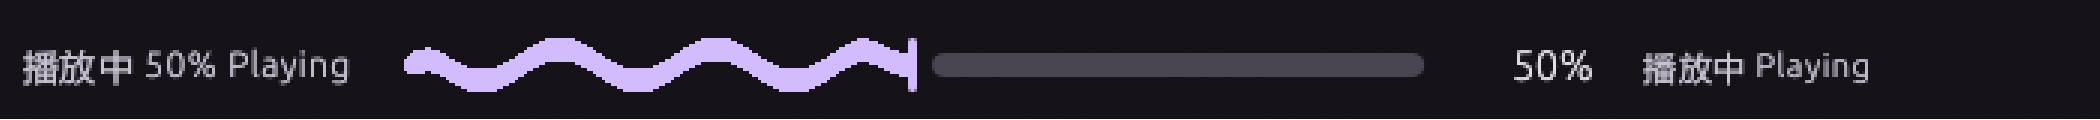
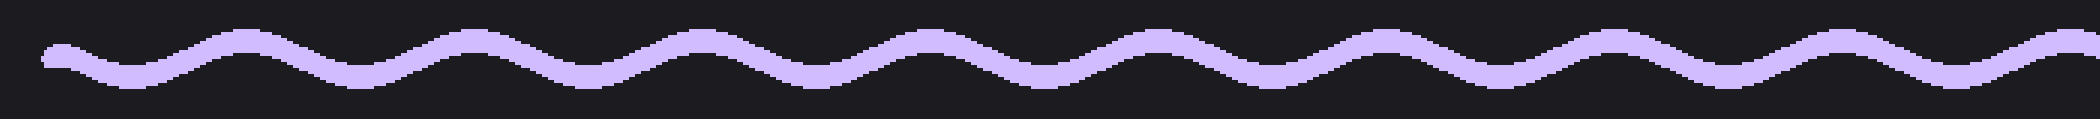
fix: 划像分界线收成 1px、把手改大圆角原生药丸，修拖动时舞台透出下层窗口
- 分界不再留 24px 空洞，A/B 两片在 split 处相接，中间那条 1px 线由 grip 窗口自己画，因此不会再看到下层窗口。\n- grip 区域改为「1px 线 ∪ 圆角药丸」：竖缝用 20x64、横缝用 64x20，圆角半径取短边一半，把手两端真正变圆。\n- 表面窗口的 WM_ERASEBKGND 交回 DefWindowProc 用黑色类刷擦除，尺寸变化/暴露时不会再出现未绘制的透明块。\n- 顺手删掉导航栏底部与「设置」重复的主题色按钮，只保留版本号。

Changed region(s): [[0.0, 0.225, 1.0, 0.775]]

diff --git a/src/video/childwin.rs b/src/video/childwin.rs
@@ -21,10 +21,10 @@ use windows_sys::Win32::Foundation::{
     ERROR_CLASS_ALREADY_EXISTS, GetLastError, HINSTANCE, HWND, LPARAM, LRESULT, POINT, RECT, WPARAM,
 };
 use windows_sys::Win32::Graphics::Gdi::{
-    BLACK_BRUSH, BeginPaint, ClientToScreen, CreatePen, CreateRectRgn, CreateRoundRectRgn,
-    CreateSolidBrush, DeleteObject, EndPaint, FillRect, GetDC, GetStockObject, InvalidateRect,
-    LineTo, MoveToEx, PAINTSTRUCT, ReleaseDC, ScreenToClient, SelectObject, SetWindowRgn,
-    ValidateRect,
+    BLACK_BRUSH, BeginPaint, ClientToScreen, CombineRgn, CreatePen, CreateRectRgn,
+    CreateRoundRectRgn, CreateSolidBrush, DeleteObject, EndPaint, FillRect, GetDC, GetStockObject,
+    InvalidateRect, LineTo, MoveToEx, PAINTSTRUCT, RGN_OR, ReleaseDC, ScreenToClient, SelectObject,
+    SetWindowRgn, ValidateRect,
 };
 use windows_sys::Win32::System::LibraryLoader::GetModuleHandleW;
 use windows_sys::Win32::UI::Input::KeyboardAndMouse::{GetAsyncKeyState, VK_LBUTTON};
@@ -1090,6 +1090,68 @@ impl ChildWindow {
         Ok(Self { hwnd })
     }
 
+    /// Shapes the wipe grip: a one-pixel divider plus a rounded pill centred on
+    /// it.
+    ///
+    /// `vertical` orients the divider (a vertical seam for a left/right split).
+    /// `long`/`short` are the pill's dimensions; `short` is also its corner
+    /// radius, so the pill stays fully rounded.
+    pub fn set_grip_region(&self, vertical: bool, long: i32, short: i32) {
+        let mut rect = RECT::default();
+        // SAFETY: client rect query on a live HWND; `RECT` is a plain struct.
+        let (w, h) = unsafe {
+            if GetClientRect(self.hwnd, &mut rect) != 0 {
+                (rect.right - rect.left, rect.bottom - rect.top)
+            } else {
+                (0, 0)
+            }
+        };
+        if w <= 0 || h <= 0 {
+            return;
+        }
+        let cx = w / 2;
+        let cy = h / 2;
+        // A vertical seam gets a tall pill, a horizontal seam a wide one.
+        let (pill_w, pill_h) = if vertical {
+            (short, long)
+        } else {
+            (long, short)
+        };
+        // SAFETY: regions are plain GDI objects created and released here; on
+        // success SetWindowRgn takes ownership of the combined one.
+        unsafe {
+            let line = if vertical {
+                CreateRectRgn(cx, 0, cx + 1, h)
+            } else {
+                CreateRectRgn(0, cy, w, cy + 1)
+            };
+            if line.is_null() {
+                return;
+            }
+            let pill = CreateRoundRectRgn(
+                cx - pill_w / 2,
+                cy - pill_h / 2,
+                cx + pill_w / 2 + 1,
+                cy + pill_h / 2 + 1,
+                pill_h.min(pill_w),
+                pill_h.min(pill_w),
+            );
+            if pill.is_null() {
+                DeleteObject(line);
+                return;
+            }
+            if CombineRgn(line, line, pill, RGN_OR) == 0 {
+                DeleteObject(pill);
+                DeleteObject(line);
+                return;
+            }
+            DeleteObject(pill);
+            if SetWindowRgn(self.hwnd, line, 1) == 0 {
+                DeleteObject(line);
+            }
+        }
+    }
+
     /// Applies the rounded-pill region matching the current size.
     ///
     /// Called after every resize so the handle keeps its Material shape
@@ -1175,7 +1237,13 @@ unsafe extern "system" fn wndproc(
     lparam: LPARAM,
 ) -> LRESULT {
     match message {
-        WM_ERASEBKGND => 1,
+        // The class background brush is black, so let it erase: a resized or
+        // exposed surface then repaints opaque instead of showing whatever was
+        // behind it (which looked like the window going transparent).
+        WM_ERASEBKGND => {
+            // SAFETY: default handling uses the class brush registered above.
+            unsafe { DefWindowProcW(hwnd, message, wparam, lparam) }
+        }
         WM_PAINT => {
             // SAFETY: standard paint sequence; every acquired DC is released and
             // the update region is validated before returning.

diff --git a/src/app/stage.rs b/src/app/stage.rs
@@ -37,6 +37,11 @@ const SYNC_INTERVAL: Duration = Duration::from_millis(250);
 /// subclassing, so a recreated renderer cannot silently swallow the pointer.
 const HOOK_SCAN_INTERVAL: Duration = Duration::from_millis(400);
 
+/// Wipe grip pill: long/short side in physical pixels. The short side also
+/// doubles as the corner radius, so the pill reads as fully rounded.
+const GRIP_PILL_LONG: i32 = 64;
+const GRIP_PILL_SHORT: i32 = 20;
+
 /// Physical pixel rectangle.
 type PxRect = (i32, i32, i32, i32);
 
@@ -272,7 +277,7 @@ impl Media {
             let ok = [Plane::A, Plane::B]
                 .into_iter()
                 .all(|plane| self.surface_mut(plane).ensure(stage, plane).is_ok());
-            self.grip.round = 9;
+            self.grip.round = 0; // shaped by `set_grip_region`, not a plain pill
             let grip_ok = ChildWindow::create_grip(stage, 0x4D56_0005, "muxvideo-grip")
                 .map(|win| {
                     self.grip.hwnd = win.hwnd();
@@ -446,10 +451,11 @@ impl Media {
                         let split = (wipe.clamp(0.0, 1.0)
                             * if axis == SplitAxis::Horizontal { w } else { h } as f32)
                             .round() as i32;
-                        // Leave a hole at the seam so the egui-painted divider
-                        // and its drag handle show through (native planes sit
-                        // above egui, so the handle can only live in the gap).
-                        const SEAM: i32 = 10;
+                        // The seam is a single pixel: plane A owns the column to
+                        // the left of `split`, plane B owns it from `split` on.
+                        // The grip window draws the 1 px divider and its pill on
+                        // top of the two planes, so nothing is left unpainted.
+                        const SEAM: i32 = 0;
                         let before = (split - SEAM).max(0);
                         let after =
                             (split + SEAM).min(if axis == SplitAxis::Horizontal { w } else { h });
@@ -457,17 +463,14 @@ impl Media {
                             SplitAxis::Horizontal => {
                                 a_clip = Some((0, 0, before, h));
                                 b_clip = Some((after, 0, (w - after).max(0), h));
-                                // 18 x 56 pill centred on the seam.
-                                let cx = split - 9;
-                                let cy = (h - 56) / 2;
-                                grip_rect = Some((cx, cy.max(0), 18, 56.min(h)));
+                                // Full-height strip: the grip paints a 1 px line
+                                // plus a pill in the middle of it.
+                                grip_rect = Some((split - 10, 0, 20, h));
                             }
                             SplitAxis::Vertical => {
                                 a_clip = Some((0, 0, w, before));
                                 b_clip = Some((0, after, w, (h - after).max(0)));
-                                let cx = (w - 56) / 2;
-                                let cy = split - 9;
-                                grip_rect = Some((cx.max(0), cy, 56.min(w), 18));
+                                grip_rect = Some((0, split - 10, w, 20));
                             }
                         }
                     }
@@ -519,6 +522,14 @@ impl Media {
         if grip_rect.is_some()
             && let Some(win) = &self.grip.window
         {
+            // Shape the grip: one-pixel divider plus a rounded pill in the
+            // middle of it. Doing this here keeps the region in sync with the
+            // seam whenever the split moves or the axis flips.
+            win.set_grip_region(
+                axis == SplitAxis::Horizontal,
+                GRIP_PILL_LONG,
+                GRIP_PILL_SHORT,
+            );
             // Draw the handle over the planes, never behind them.
             win.bring_to_top();
         }

diff --git a/src/app/bars.rs b/src/app/bars.rs
@@ -379,11 +379,7 @@ pub(super) fn rail(ui: &mut Ui, app: &mut MuxApp) {
             .max_rect(foot)
             .layout(Layout::top_down(Align::Center)),
         |ui| {
-            let palette_resp = icon_button(ui, &p, 40.0, false, icons::palette);
-            if palette_resp.clicked() {
-                app.rail = RailTab::Settings;
-            }
-            ui.add_space(2.0);
+            ui.add_space(42.0);
             ui.painter().text(
                 pos2(foot.center().x, foot.min.y + 74.0),
                 Align2::CENTER_CENTER,
